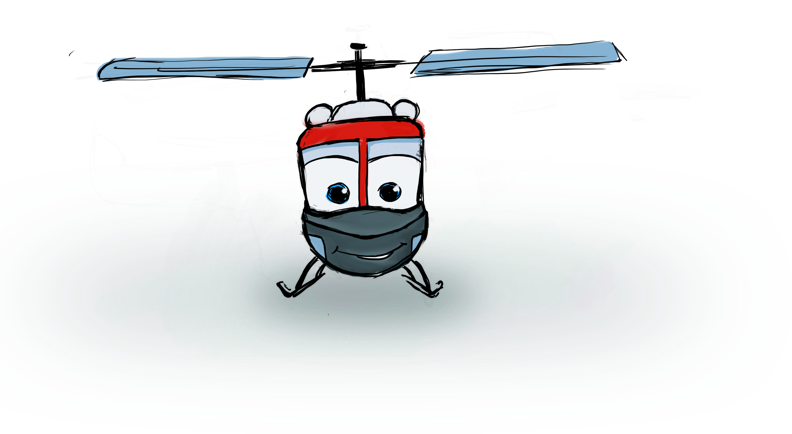
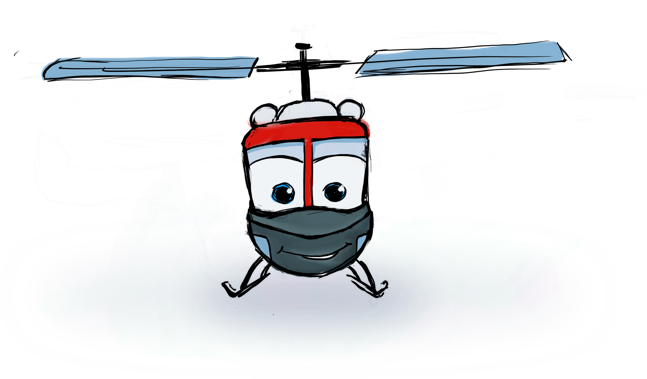
Fixed build issue

Changed region(s): [[0.0618, 0.0871, 0.8964, 0.8707]]

diff --git a/src/components/header.js b/src/components/header.js
@@ -3,9 +3,6 @@ import { FaGithub } from 'react-icons/fa';
 
 import './style.scss';
 
-import gatsbyLogo from '../images/gatsby-icon.png';
-import bulmaLogo from '../images/bulma-logo.png';
-import hueyDesktop from '../images/huey_hero_desktop-bg.png';
 import huey from '../images/huey.png';
 import Navbar from './navbar';
 

diff --git a/src/components/navbar.js b/src/components/navbar.js
@@ -1,9 +1,7 @@
 import React from 'react';
-import { FaGithub } from 'react-icons/fa';
 
 import './style.scss';
-import gatsbyLogo from '../images/gatsby-icon.png';
-import bulmaLogo from '../images/bulma-logo.png';
+
 
 
 const Navbar = () => (

diff --git a/src/components/style.scss b/src/components/style.scss
@@ -35,5 +35,5 @@
 
 
 .huey{
-	margin-bottom: -5rem;
+	margin-bottom: -3rem;
 }
